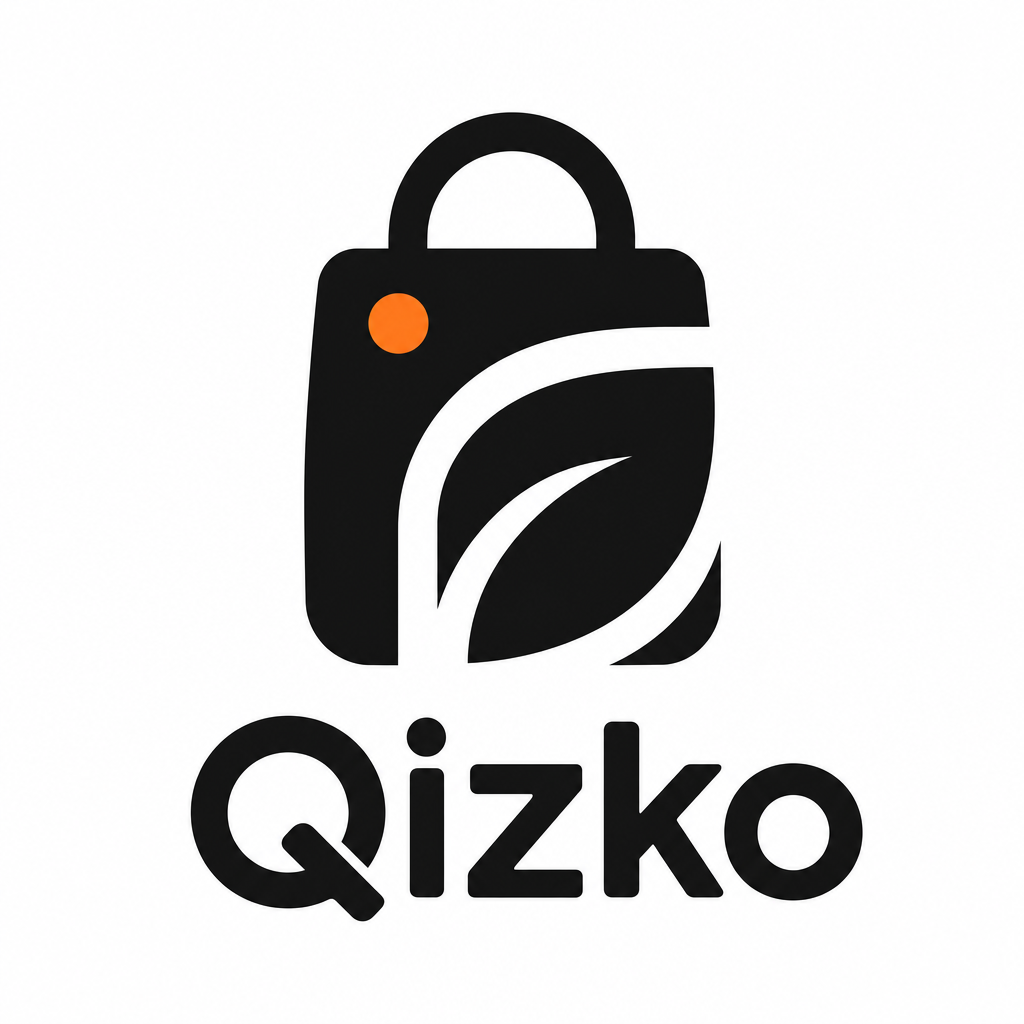
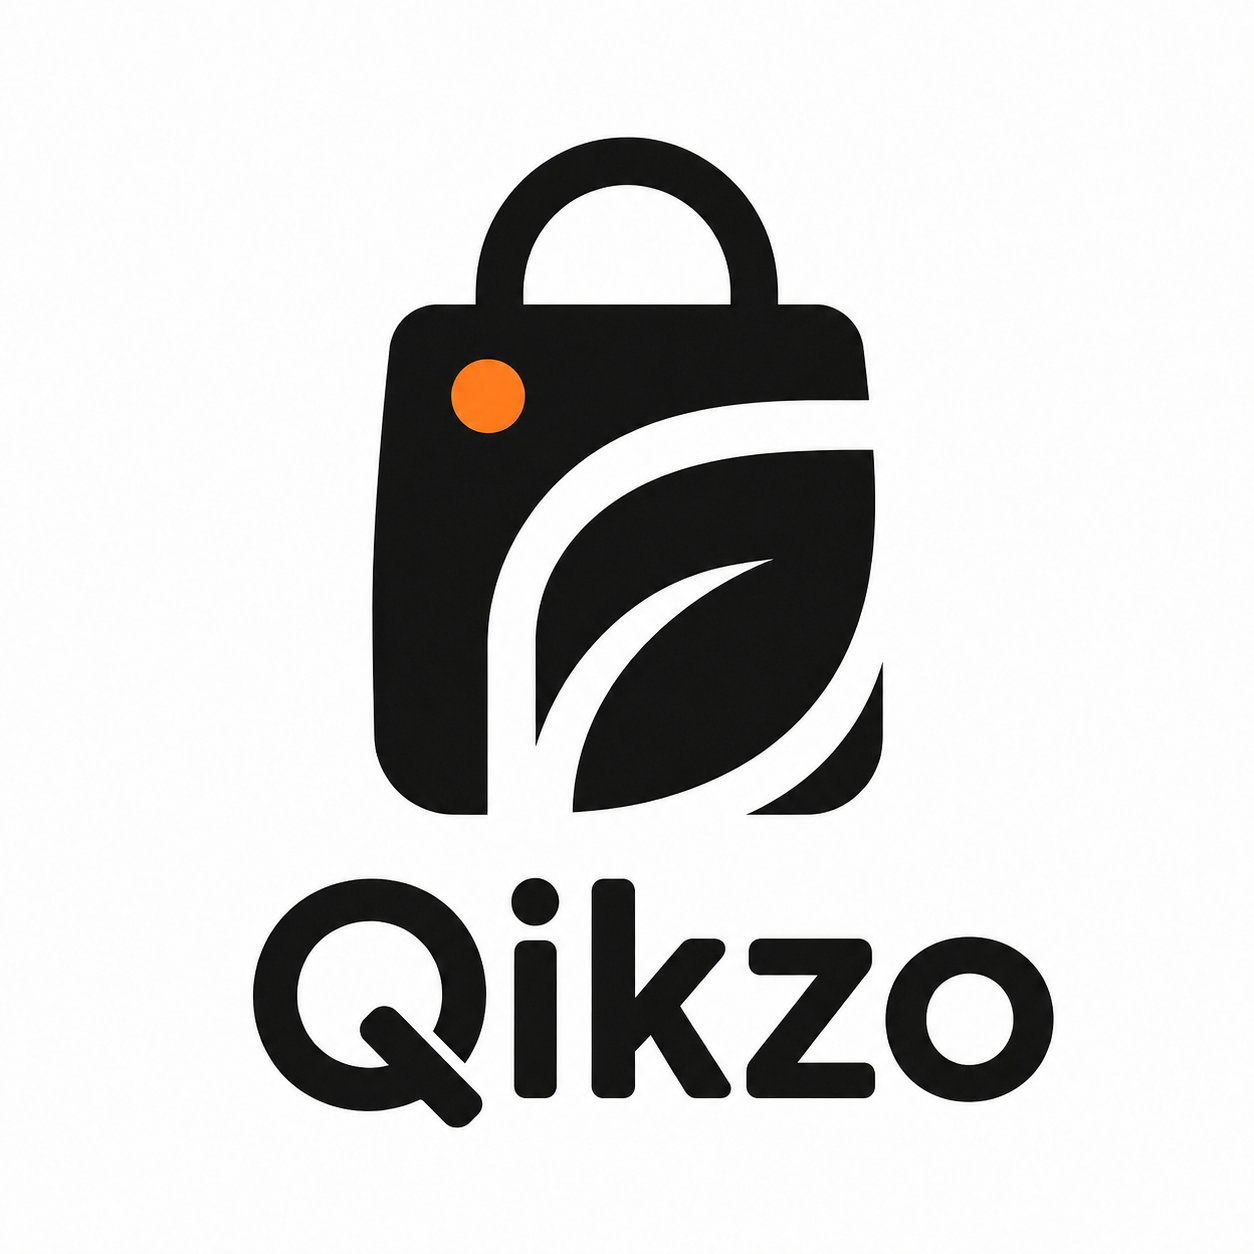
upadted some ui design

Changed region(s): [[0.1875, 0.6875, 0.7188, 0.9062], [0.8125, 0.7812, 0.8438, 0.8438]]

diff --git a/task-app/lib/theme.ts b/task-app/lib/theme.ts
@@ -1,36 +1,37 @@
-// Qizko — grocery booking customer app theme.
-// Minimal black & white aesthetic with a single warm accent (inspired by reference UI kit).
+// Qizko — on-demand delivery/ride booking customer app theme.
+// "Black & Gold Elegance" palette: deep navy + warm gold accent on clean white.
+// Reference palette: #FFFFFF, #E5E5E5, #FCA311, #14213D, #000000
 
 export const colors = {
-  primary: '#111111',
-  primaryDark: '#000000',
+  primary: '#14213D',          // deep navy — primary surfaces, buttons, brand
+  primaryDark: '#004643',
   primaryForeground: '#FFFFFF',
-  accent: '#F97316',
-  accentForeground: '#FFFFFF',
+  accent: '#FCA311',           // warm gold — highlights, active pins, CTAs
+  accentForeground: '#14213D',
   background: '#FFFFFF',
   card: '#FFFFFF',
-  foreground: '#111111',
+  foreground: '#14213D',       // primary text
   mutedForeground: '#6B7280',
-  border: '#E5E7EB',
-  divider: '#EFEFEF',
+  border: '#E5E5E5',
+  divider: '#ECECEC',
   success: '#16A34A',
   danger: '#DC2626',
-  warning: '#D97706',
+  warning: '#FCA311',
   inputBg: '#FFFFFF',
-  inputBorder: '#D1D5DB',
+  inputBorder: '#D8D8D8',
   chipBg: '#F4F4F5',
   // legacy keys kept for backward compatibility with any remaining screens
   green: '#16A34A',
   red: '#DC2626',
-  purple: '#111111',
-  orange: '#F97316',
+  purple: '#14213D',
+  orange: '#FCA311',
 };
 
-// Strict rule: border radius is 0 everywhere.
+// Small, professional border radii (max 4) — soft edges, not bubbly boxes.
 export const radius = {
-  sm: 0,
-  md: 0,
-  lg: 0,
+  sm: 2,
+  md: 3,
+  lg: 4,
 };
 
 // Strict rule: horizontal padding is always 6; vertical gaps are small (6).

diff --git a/task-app/components/LeafletMap.tsx b/task-app/components/LeafletMap.tsx
@@ -59,9 +59,11 @@ ${pickerMode ? `<div class="pulse"></div><div class="pin-center"><svg width="30"
   var map = L.map('map', { zoomControl: false, attributionControl: true })
     .setView([${center.lat}, ${center.lng}], 15);
   L.control.zoom({ position: 'topright' }).addTo(map);
-  L.tileLayer('https://{s}.tile.openstreetmap.org/{z}/{x}/{y}.png', {
-    maxZoom: 19,
-    attribution: '© OpenStreetMap'
+  // Clean, modern basemap (CartoDB Voyager) — closer to the Uber/Rapido look than raw OSM.
+  L.tileLayer('https://{s}.basemaps.cartocdn.com/rastertiles/voyager/{z}/{x}/{y}{r}.png', {
+    maxZoom: 20,
+    subdomains: 'abcd',
+    attribution: '© OpenStreetMap © CARTO'
   }).addTo(map);
 
   function pinIcon(color){
@@ -74,8 +76,9 @@ ${pickerMode ? `<div class="pulse"></div><div class="pin-center"><svg width="30"
   ${pickup ? `L.marker([${pickup.lat},${pickup.lng}], { icon: pinIcon('${colors.accent}') }).addTo(map);` : ''}
   ${drop ? `L.marker([${drop.lat},${drop.lng}], { icon: pinIcon('${colors.foreground}') }).addTo(map);` : ''}
   ${pickup && drop ? `
-    var line = L.polyline([[${pickup.lat},${pickup.lng}],[${drop.lat},${drop.lng}]], { color:'${colors.foreground}', weight:3, dashArray:'6,6' }).addTo(map);
-    map.fitBounds(line.getBounds(), { padding:[40,40] });
+    var lineBg = L.polyline([[${pickup.lat},${pickup.lng}],[${drop.lat},${drop.lng}]], { color:'${colors.primary}', weight:6, opacity:.9 }).addTo(map);
+    var line = L.polyline([[${pickup.lat},${pickup.lng}],[${drop.lat},${drop.lng}]], { color:'${colors.accent}', weight:3 }).addTo(map);
+    map.fitBounds(line.getBounds(), { padding:[50,50] });
   ` : ''}
 
   ${pickerMode ? `

diff --git a/task-app/app/help-support.tsx b/task-app/app/help-support.tsx
@@ -4,7 +4,7 @@ import { colors, fonts } from '@/lib/theme';
 import ScreenHeader from '@/components/ScreenHeader';
 
 const FAQS = [
-  { q: 'How does Qizko work?', a: 'Set your pickup and drop locations, add a note for what to fetch, confirm — and a nearby rider picks it up and delivers it to you.' },
+  { q: 'How does Qikzo work?', a: 'Set your pickup and drop locations, add a note for what to fetch, confirm — and a nearby rider picks it up and delivers it to you.' },
   { q: 'How is the price calculated?', a: 'A base fare of ₹25 plus ₹8 per kilometre of distance between pickup and drop. The total is shown before you confirm.' },
   { q: 'Can I send anything?', a: 'Yes — groceries, food, medicines, parcels and documents. Illegal items, hazardous materials and alcohol are not allowed.' },
   { q: 'How do I track my booking?', a: 'Open the Activity tab and tap your booking to see live status, rider details and trip timeline.' },
@@ -17,7 +17,7 @@ export default function HelpSupport() {
     <View style={styles.container}>
       <ScreenHeader title="Help & support" />
       <ScrollView contentContainerStyle={{ padding: 6, paddingBottom: 24 }} showsVerticalScrollIndicator={false}>
-        <Text style={styles.lead}>Need a hand? Reach us anytime at support@qizko.in or call +91 1800 123 456.</Text>
+        <Text style={styles.lead}>Need a hand? Reach us anytime at support@qikzo.in or call +91 1800 123 456.</Text>
         <Text style={styles.section}>Frequently asked</Text>
         {FAQS.map((f) => (
           <View key={f.q} style={styles.card}>

diff --git a/task-app/app/terms-conditions.tsx b/task-app/app/terms-conditions.tsx
@@ -10,13 +10,13 @@ export default function TermsConditions() {
       <ScrollView contentContainerStyle={{ padding: 6, paddingBottom: 24 }} showsVerticalScrollIndicator={false}>
         <Text style={styles.p}>Last updated: June 2026</Text>
         <Text style={styles.h}>Use of the app</Text>
-        <Text style={styles.p}>By using Qizko you agree to place genuine orders and provide accurate delivery details.</Text>
+        <Text style={styles.p}>By using Qikzo you agree to place genuine orders and provide accurate delivery details.</Text>
         <Text style={styles.h}>Pricing & availability</Text>
         <Text style={styles.p}>Prices and product availability may change without notice. Final price is shown at checkout.</Text>
         <Text style={styles.h}>Orders & cancellation</Text>
         <Text style={styles.p}>Orders may be cancelled before packing. Refunds for prepaid orders are processed to the original payment method.</Text>
         <Text style={styles.h}>Liability</Text>
-        <Text style={styles.p}>Qizko is not liable for delays caused by circumstances beyond our control such as weather or traffic.</Text>
+        <Text style={styles.p}>Qikzo is not liable for delays caused by circumstances beyond our control such as weather or traffic.</Text>
       </ScrollView>
     </View>
   );

diff --git a/task-app/app/notifications.tsx b/task-app/app/notifications.tsx
@@ -21,7 +21,7 @@ const SEED: N[] = [
     { id: '1', type: 'order', title: 'Booking confirmed', body: 'Your booking #QZ2104 has been placed. Searching for a rider near you.', time: '2m ago', read: false },
     { id: '2', type: 'delivery', title: 'Rider on the way', body: 'Rohit is arriving at your pickup location on Honda Activa.', time: '15m ago', read: false },
     { id: '3', type: 'offer', title: 'Flat ₹30 off your next ride', body: 'Use code QIZ30 on your next delivery booking. Valid today only.', time: '1h ago', read: true },
-    { id: '4', type: 'reward', title: 'You earned ₹15 cashback', body: 'Cashback credited to your Qizko wallet for booking #QZ2018.', time: '3h ago', read: true },
+    { id: '4', type: 'reward', title: 'You earned ₹15 cashback', body: 'Cashback credited to your Qikzo wallet for booking #QZ2018.', time: '3h ago', read: true },
     { id: '5', type: 'info', title: 'New saved place added', body: 'Office address has been saved successfully.', time: 'Yesterday', read: true },
     { id: '6', type: 'order', title: 'Booking delivered', body: 'Booking #QZ2014 was delivered. Hope everything reached safely!', time: '2d ago', read: true },
 ];

diff --git a/task-app/app/about-us.tsx b/task-app/app/about-us.tsx
@@ -11,7 +11,7 @@ export default function AboutUs() {
       <ScrollView contentContainerStyle={{ padding: 6, paddingBottom: 24 }} showsVerticalScrollIndicator={false}>
         <View style={{ marginVertical: 10 }}><Brand size={34} /></View>
         <Text style={styles.p}>
-          Qizko is an on-demand point-to-point delivery app. Book a rider to pick up anything — groceries,
+          Qikzo is an on-demand point-to-point delivery app. Book a rider to pick up anything — groceries,
           food, medicines, parcels — from any address in your city and drop it wherever you want, with live tracking
           and transparent distance-based pricing.
         </Text>
@@ -19,7 +19,7 @@ export default function AboutUs() {
         <Text style={styles.p}>
           To make city logistics effortless for every Indian. Tap, set pickup & drop, and a captain on a bike does the rest.
         </Text>
-        <Text style={styles.h}>Why Qizko</Text>
+        <Text style={styles.h}>Why Qikzo</Text>
         <Text style={styles.p}>
           • Anything, anywhere — pickup from any shop or address{'\n'}
           • Verified riders, live trip tracking{'\n'}

diff --git a/task-app/app/privacy-policy.tsx b/task-app/app/privacy-policy.tsx
@@ -12,11 +12,11 @@ export default function PrivacyPolicy() {
         <Text style={styles.h}>Information we collect</Text>
         <Text style={styles.p}>We collect your mobile number, delivery address and order details to fulfil your grocery orders.</Text>
         <Text style={styles.h}>How we use it</Text>
-        <Text style={styles.p}>Your data is used to process orders, arrange delivery, provide support and improve the Qizko experience. We never sell your personal data.</Text>
+        <Text style={styles.p}>Your data is used to process orders, arrange delivery, provide support and improve the Qikzo experience. We never sell your personal data.</Text>
         <Text style={styles.h}>Security</Text>
         <Text style={styles.p}>We use industry-standard measures to protect your information. OTP verification keeps your account secure.</Text>
         <Text style={styles.h}>Contact</Text>
-        <Text style={styles.p}>For privacy questions, email privacy@qizko.in.</Text>
+        <Text style={styles.p}>For privacy questions, email privacy@qikzo.in.</Text>
       </ScrollView>
     </View>
   );

diff --git a/task-app/app/onboarding.tsx b/task-app/app/onboarding.tsx
@@ -14,7 +14,7 @@ type Slide = {
     Icon: typeof Bike;
 };
 
-// Onboarding copy: position Qizko as "get ANYTHING delivered" — not just groceries.
+// Onboarding copy: position Qikzo as "get ANYTHING delivered" — not just groceries.
 const SLIDES: Slide[] = [
     {
         key: 's1',
@@ -60,7 +60,7 @@ export default function Onboarding() {
     return (
         <View style={[styles.container, { paddingTop: insets.top, paddingBottom: insets.bottom + 12 }]}>
             <View style={styles.topBar}>
-                <Text style={styles.brand}>Qizko</Text>
+                <Text style={styles.brand}>Qikzo</Text>
                 {index < SLIDES.length - 1 ? (
                     <Pressable onPress={finish} hitSlop={10}><Text style={styles.skip}>Skip</Text></Pressable>
                 ) : (

diff --git a/task-app/app/booking-details.tsx b/task-app/app/booking-details.tsx
@@ -141,7 +141,7 @@ export default function BookingDetailsScreen() {
                             {booking.status === 'Arriving for pickup' && 'Rider has reached the pickup spot'}
                             {booking.status === 'Picked up' && 'Items picked up, on the way to drop'}
                             {booking.status === 'On the way' && `Arriving in ~${booking.etaMin} min`}
-                            {booking.status === 'Delivered' && 'Successfully delivered. Thanks for using Qizko!'}
+                            {booking.status === 'Delivered' && 'Successfully delivered. Thanks for using Qikzo!'}
                             {booking.status === 'Cancelled' && 'This booking was cancelled.'}
                         </Text>
                     </View>

diff --git a/task-app/app/(tabs)/index.tsx b/task-app/app/(tabs)/index.tsx
@@ -89,15 +89,7 @@ export default function HomeScreen() {
       </View>
 
       <ScrollView showsVerticalScrollIndicator={false} contentContainerStyle={{ paddingBottom: 24 }}>
-        {/* Greeting */}
-        <View style={styles.greet}>
-          <Text style={styles.hi}>Hey {name === 'Guest' ? 'there' : name.split(' ')[0]} 👋</Text>
-          <Text style={styles.headline}>
-            {mode === 'ride'
-              ? `Where to,\nlet's get you moving?`
-              : `Where do we need\nto deliver today?`}
-          </Text>
-        </View>
+
 
         {/* Live map preview */}
         <View style={styles.mapBox}>

diff --git a/task-app/app/splash.tsx b/task-app/app/splash.tsx
@@ -59,7 +59,7 @@ export default function SplashAnimated() {
                     </Animated.View>
                 </View>
                 <Animated.Text style={[styles.word, { opacity: wordOpacity, transform: [{ translateY: wordTranslate }] }]}>
-                    Qizko
+                    Qikzo
                 </Animated.Text>
                 {/* Updated tagline for on-demand delivery positioning */}
                 <Animated.Text style={[styles.tagline, { opacity: taglineOpacity }]}>

diff --git a/task-app/components/Brand.tsx b/task-app/components/Brand.tsx
@@ -9,7 +9,7 @@ export default function Brand({ size = 30 }: { size?: number }) {
         <Text style={[styles.markText, { fontSize: size * 0.6 }]}>Q</Text>
         <View style={styles.dot} />
       </View>
-      <Text style={[styles.word, { fontSize: size * 0.78 }]}>Qizko</Text>
+      <Text style={[styles.word, { fontSize: size * 0.78 }]}>Qikzo</Text>
     </View>
   );
 }
